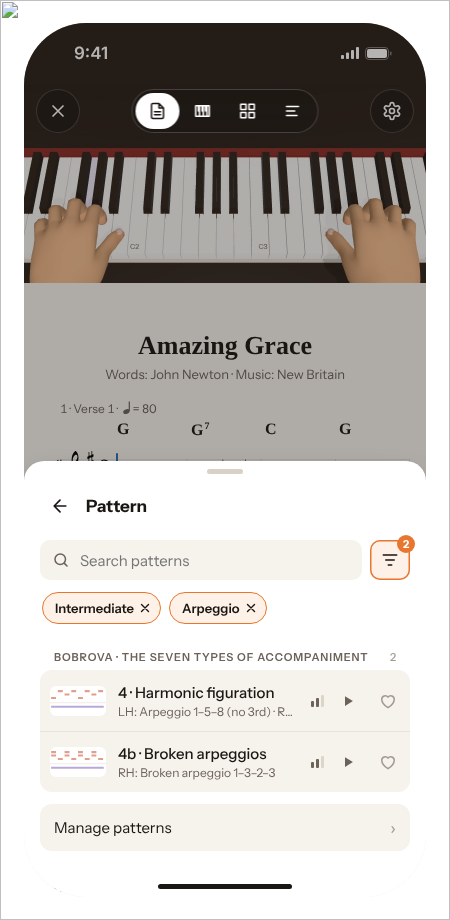
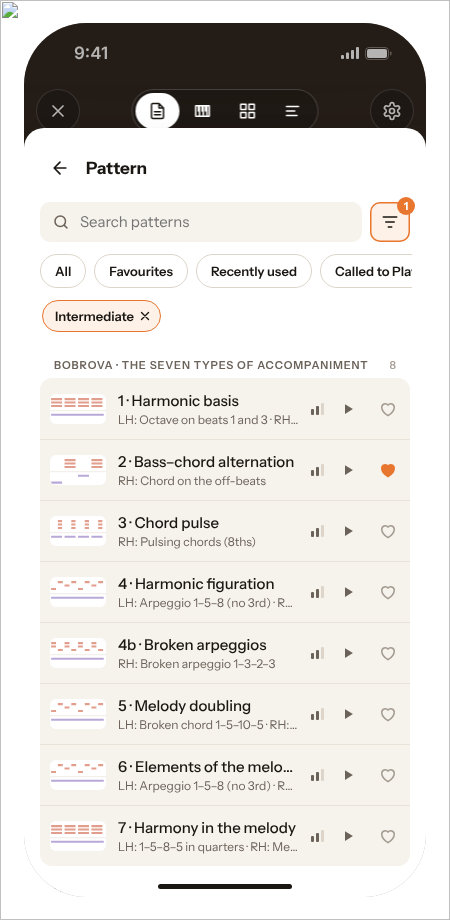
R37 canvas: place chips at the top of the Pattern page
All, Favourites, Recently used, each book and Mine, one at a time, as the
owner asked; the book leaves the Sort and filter page so it has one home.

Claude-Session: https://claude.ai/code/session_01BrtnH1Yf7S8aVU4w6rFSCU

diff --git a/.scratch/r37/plan/pace-and-settings.md b/.scratch/r37/plan/pace-and-settings.md
@@ -65,11 +65,14 @@ patterns in our app, and how should they be organized like a library"; the two-a
   the app's own library holds Sort (book order, name, level) and a Filter sheet (Level, Book or style) with its
   count and removable chips (`widgets/practice-library`, `LibrarySearch`).
 - Will build: Back · **Pattern**; **Search patterns** (name and both hands' figures) and the **Sort and filter**
-  button beside it, with the number of filters on it. It opens a page, Back · **Sort and filter**: **Sort by** Book ·
-  Name · Level; **Level** All · Beginner · Intermediate · Advanced; **Book** All · Called to Play · Called to Play 2 ·
-  Bobrova · Gorshkov · Rhythm styles · Mine; **Texture** All · Block chords · Broken chords · Arpeggio · Melody ·
+  button beside it, with the number of filters on it. Under them a row of chips that scrolls sideways (owner: "i like
+  also the chips at the top to filter"), one on at a time: **All · Favourites · Recently used · Called to Play ·
+  Called to Play 2 · Bobrova · Gorshkov · Rhythm styles · Mine**, the places of the app's library tree; a chosen
+  book shows its shelves unfolded. The button opens a page, Back · **Sort and filter**: **Sort by** Book · Name ·
+  Level; **Level** All · Beginner · Intermediate · Advanced; **Texture** All · Block chords · Broken chords · Arpeggio · Melody ·
   Lines and runs (what the right hand plays, Smart Pianist's Block and Arpeggio families); **Feel** All · Straight ·
-  Swing; the foot **Reset** and **Show n patterns**. Each filter on shows as a chip under the search with ×.
+  Swing; the foot **Reset** (the place chip stays) and **Show n patterns**. Each filter on shows as a chip under the
+  place chips with ×. The book is chosen only by its chip, never in the page too.
 - The list by Book: **Recently used** (the last three chosen, the playing one first) and **Favourites** while nothing
   narrows, then each book's shelf as Practice names it (Called to Play · The five ways (lesson 3), … Rhythm styles,
   Mine last), its count at the heading's end, folded after five with **Show all n**. By Name one A–Z list; by Level

diff --git a/.claude/skills/owner-way/references/feedback-log.md b/.claude/skills/owner-way/references/feedback-log.md
@@ -101,7 +101,8 @@ owner's, typos fixed.
     (Pattern ›). Versions and accompaniment are separate, one plays. Rejected: "As written", a switch over version
     tiles, one mixed list. Names are the trade's: flowkey's levels, Smart Pianist's Accompaniment and Pattern. No Voicing or Swing; the accompaniment is not in
     Practice.
-  - The Player's Pattern page is a library: Search, a Sort and filter page (Sort by, Level, Book, Texture, Feel,
+  - The Player's Pattern page is a library: Search; place chips at the top (All, Favourites, Recently used, each
+    book, Mine; the owner likes them); a Sort and filter page (Sort by, Level, Texture, Feel,
     Reset · Show n) with its count on the button and removable chips; Recently used and Favourites first, then the
     books' shelves with counts, folded after five; rows with roll, hands line, level, Listen, heart. Never chips by
     kind, stars or cards two a row.
